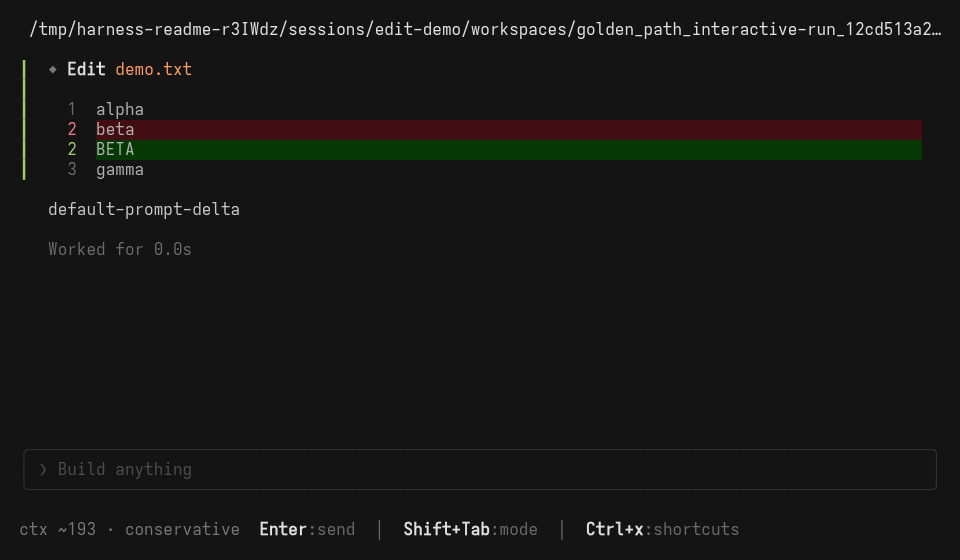
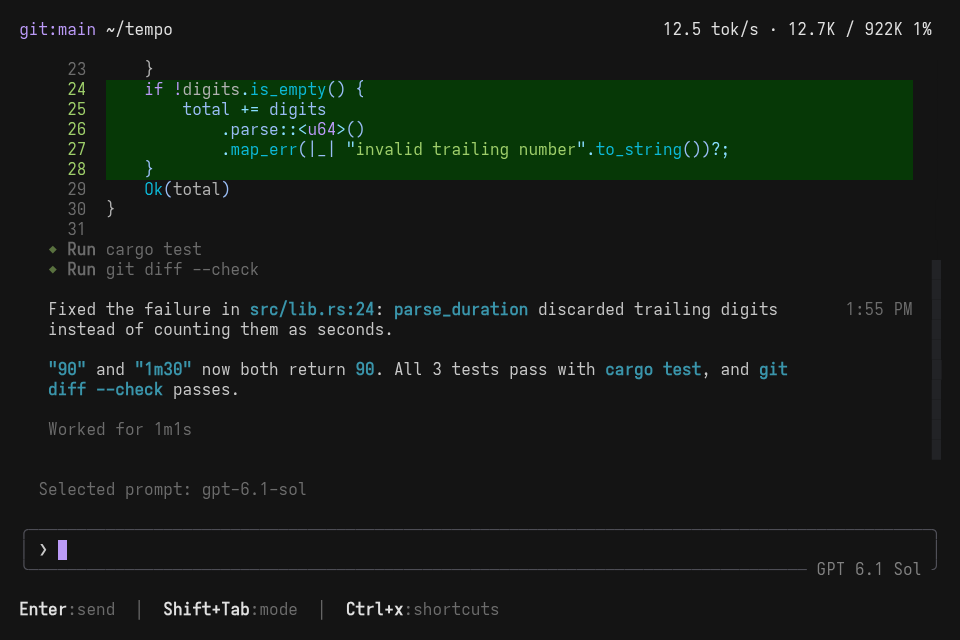
docs(assets): record the README demo from a live session
The demo now shows a signed-in model fixing a failing cargo test in a scratch
crate through the real TUI instead of the mock provider's canned reply. The
capture script trims idle stretches, checks that the tests pass afterwards,
scans frames for secrets and removes the project data it created.

diff --git a/docs/assets/README.md b/docs/assets/README.md
@@ -1,37 +1,56 @@
 # README media
 
-[`harness-demo.gif`](harness-demo.gif) records the real Harness TUI in a
-100-column, 28-row terminal. It shows a prompt, the scripted `Hello world` reply,
-the command palette, an edit approval, and the resulting diff.
-[`harness-tui.png`](harness-tui.png) is a still frame from the edit scene. Both
+[`harness-demo.gif`](harness-demo.gif) is a real session in the Harness TUI at
+100 columns by 32 rows. A signed-in model gets one prompt, "cargo test is
+failing. Find the root cause and fix it.", in a small Rust crate called `tempo`
+whose duration parser drops trailing digits. Nothing the agent does is
+scripted: it plans, runs the tests, reads the code, patches `src/lib.rs` and
+checks its work. [`harness-tui.png`](harness-tui.png) is the final frame. Both
 READMEs use these files.
 
-The recording uses `tui --mock` and the built-in `golden_path_interactive` scenario
-in temporary workspaces. It does not use live credentials or make provider
-requests. Frame timing is set for readability; the animation is not a latency
-measurement.
+The recording runs the release binary against a throwaway Git repository and
+session directory. It differs from a normal session in three ways:
+
+- `HOME` points at the temporary directory, so the header reads `~/tempo`.
+  Credentials still come from your real Harness home.
+- LSP is off. A cold rust-analyzer only answers "server cancelled the request"
+  within a one-minute run.
+- Eval is denied, so the transcript shows individual tool cards instead of
+  code cells.
+
+Frames are sampled about four times a second and played back faster. When the
+screen's text stops changing (timers and token rates aside), the script keeps
+under a second of frames, so long model waits shrink. The animation is not a
+latency measurement.
 
 ## Regenerate
 
-On Linux, install Chromium, FFmpeg, Node.js, util-linux's `script`, and the
-Adwaita Mono font. The existing capture helper reads the font at
-`/usr/share/fonts/Adwaita/AdwaitaMono-Regular.ttf`.
+You need Linux with Chromium, FFmpeg, Node.js, util-linux's `script`, a Rust
+toolchain, the Adwaita Mono font at
+`/usr/share/fonts/Adwaita/AdwaitaMono-Regular.ttf`, and a provider you have
+signed in to.
 
 From the repository root:
 
 ```bash
-cargo build -p harness --locked
+cargo build --release -p harness --locked
 npm ci --prefix scripts/qa
-node scripts/qa/capture-readme-demo.mjs
+HARNESS_DEMO_MODEL=openai-codex/gpt-6.1-sol node scripts/qa/capture-readme-demo.mjs
 ```
 
-Set `HARNESS_QA_BROWSER` if Chromium is installed somewhere other than
-`/usr/bin/chromium`. The script reuses the xterm.js and PTY helpers in
-[`scripts/qa/lib`](../../scripts/qa/lib), checks the reply and edited file appear, scans
-the terminal output for secrets, and replaces the two media files only after
-encoding succeeds. It removes the temporary workspace and browser profile.
+`HARNESS_DEMO_MODEL` takes a `provider/model` reference (`harness models` lists
+the available models); leave it unset to use your default. Set
+`HARNESS_QA_BROWSER` if Chromium is not at `/usr/bin/chromium`. The run takes
+one to two minutes and uses your provider account.
 
-Inspect the animation and still image before committing them. Keep the mock
-caption and image descriptions accurate if the recorded sequence changes.
-The READMEs request the still image for reduced-motion preferences and provide
-a direct still-image link for viewers that do not support the media query.
+The script reuses the xterm.js and PTY helpers in
+[`scripts/qa/lib`](../../scripts/qa/lib). It fails unless the turn finishes and
+`cargo test` passes afterwards, scans every frame and the raw terminal output for
+secrets, and replaces the two files only after encoding succeeds. Afterwards it
+removes the temporary workspace, the browser profile and the edit-attribution
+directory the run created under your Harness home.
+
+Model output differs between runs. Watch the result before committing it, and
+update the model name in the README caption and the image descriptions in both
+READMEs if the session changes. The READMEs serve the still image to readers who
+prefer reduced motion and link to it for viewers that ignore the media query.
